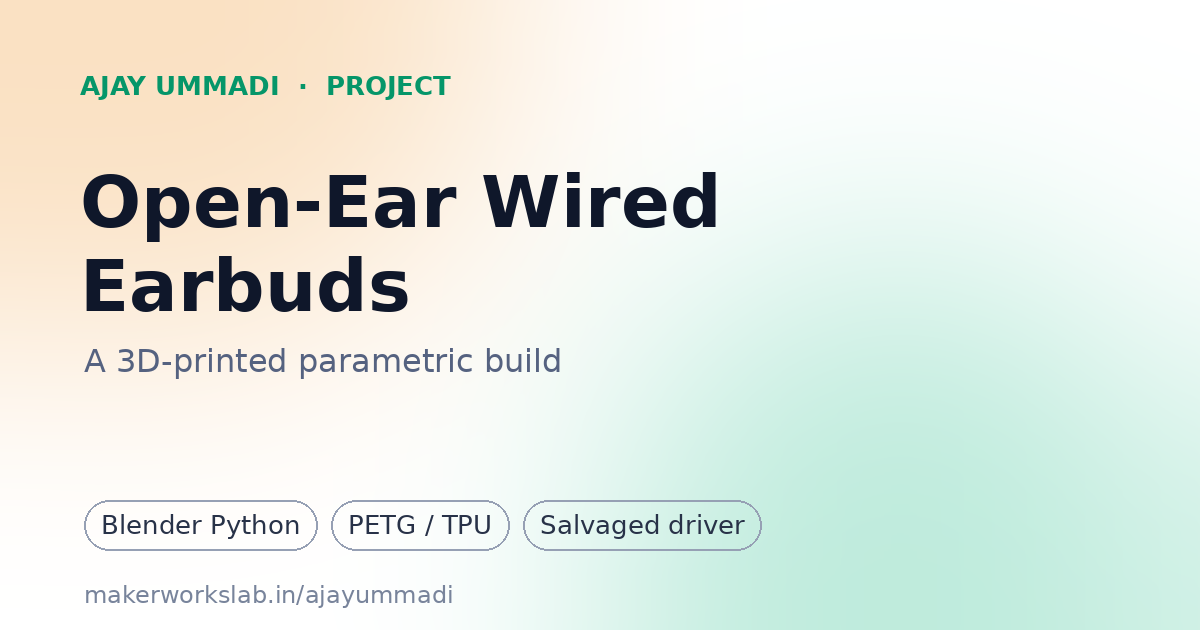
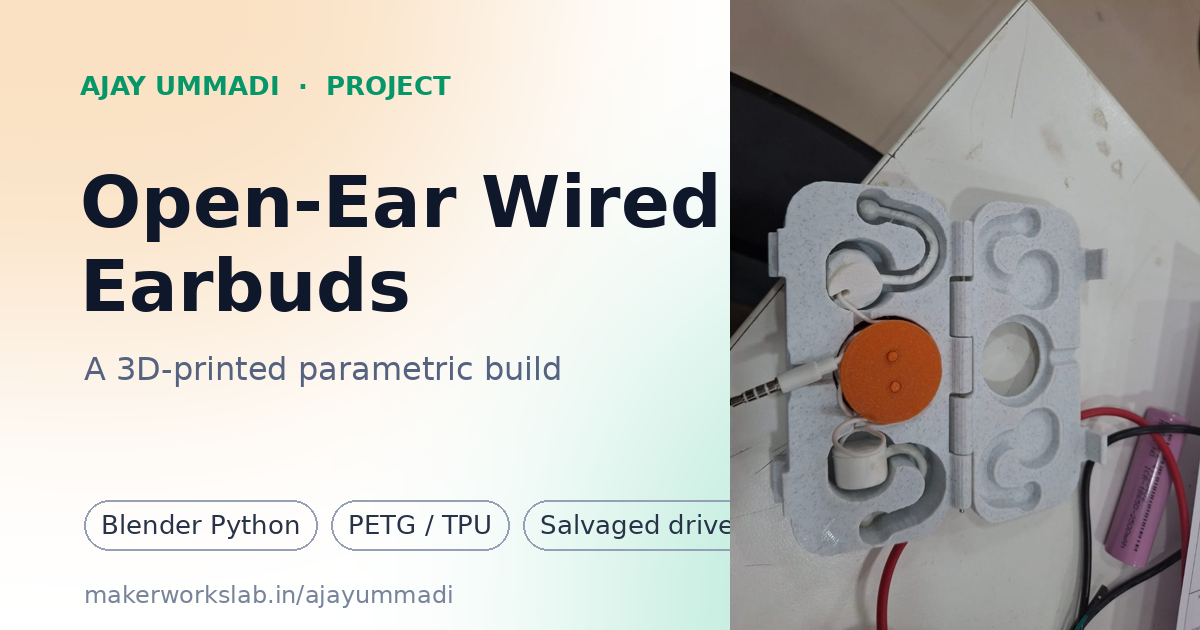
Add earbuds photos and gallery, update case status

diff --git a/projects/open-ear-earbuds/index.html b/projects/open-ear-earbuds/index.html
@@ -4,18 +4,18 @@
 <meta charset="utf-8">
 <meta name="viewport" content="width=device-width, initial-scale=1">
 <title>Open-Ear Wired Earbuds: A 3D-Printed Parametric Build | Ajay Ummadi</title>
-<meta name="description" content="Wired open-ear earphones designed in one parametric Blender Python script around a salvaged driver, 3D-printed in PETG or TPU, with a cable-reel case. Both ears printed and worn.">
+<meta name="description" content="Wired open-ear earphones designed in one parametric Blender Python script around a salvaged driver, 3D-printed in PETG or TPU, with a cable-reel case. Both ears and a cable-reel case printed.">
 <meta name="robots" content="index,follow,max-image-preview:large,max-snippet:-1">
 <meta name="author" content="Ajay Ummadi">
 <meta name="keywords" content="open-ear earphones, 3D printed earbuds, Blender Python, parametric design, PETG, TPU, salvaged driver, cable reel case">
 <link rel="icon" href="../../favicon.svg" type="image/svg+xml"><link rel="icon" href="../../favicon-32.png" sizes="32x32" type="image/png"><link rel="shortcut icon" href="../../favicon.ico"><link rel="apple-touch-icon" href="../../apple-touch-icon.png">
 <link rel="canonical" href="https://makerworkslab.in/ajayummadi/projects/open-ear-earbuds/">
 <meta property="og:type" content="article"><meta property="og:site_name" content="Ajay Ummadi">
-<meta property="og:title" content="Open-Ear Wired Earbuds: A 3D-Printed Parametric Build"><meta property="og:description" content="Wired open-ear earphones designed in one parametric Blender Python script around a salvaged driver, 3D-printed in PETG or TPU, with a cable-reel case. Both ears printed and worn.">
+<meta property="og:title" content="Open-Ear Wired Earbuds: A 3D-Printed Parametric Build"><meta property="og:description" content="Wired open-ear earphones designed in one parametric Blender Python script around a salvaged driver, 3D-printed in PETG or TPU, with a cable-reel case. Both ears and a cable-reel case printed.">
 <meta property="og:url" content="https://makerworkslab.in/ajayummadi/projects/open-ear-earbuds/"><meta property="og:image" content="https://makerworkslab.in/ajayummadi/projects/open-ear-earbuds/og.png">
 <meta property="og:image:width" content="1200"><meta property="og:image:height" content="630"><meta property="og:image:alt" content="Open-Ear Wired Earbuds — project by Ajay Ummadi">
 <meta name="twitter:card" content="summary_large_image"><meta name="twitter:title" content="Open-Ear Wired Earbuds: A 3D-Printed Parametric Build">
-<meta name="twitter:description" content="Wired open-ear earphones designed in one parametric Blender Python script around a salvaged driver, 3D-printed in PETG or TPU, with a cable-reel case. Both ears printed and worn."><meta name="twitter:image" content="https://makerworkslab.in/ajayummadi/projects/open-ear-earbuds/og.png">
+<meta name="twitter:description" content="Wired open-ear earphones designed in one parametric Blender Python script around a salvaged driver, 3D-printed in PETG or TPU, with a cable-reel case. Both ears and a cable-reel case printed."><meta name="twitter:image" content="https://makerworkslab.in/ajayummadi/projects/open-ear-earbuds/og.png">
 <meta name="theme-color" content="#ffffff">
 <script type="application/ld+json">
 {
@@ -67,7 +67,7 @@
    "@id": "https://makerworkslab.in/ajayummadi/projects/open-ear-earbuds/#project",
    "url": "https://makerworkslab.in/ajayummadi/projects/open-ear-earbuds/",
    "name": "Open-Ear Wired Earbuds: A 3D-Printed Parametric Build",
-   "description": "Wired open-ear earphones designed in one parametric Blender Python script around a salvaged driver, 3D-printed in PETG or TPU, with a cable-reel case. Both ears printed and worn.",
+   "description": "Wired open-ear earphones designed in one parametric Blender Python script around a salvaged driver, 3D-printed in PETG or TPU, with a cable-reel case. Both ears and a cable-reel case printed.",
    "creator": {
     "@id": "https://makerworkslab.in/ajayummadi/#person"
    },
@@ -76,7 +76,13 @@
    },
    "keywords": "open-ear earphones, 3D printed earbuds, Blender Python, parametric design, PETG, TPU, salvaged driver, cable reel case",
    "inLanguage": "en",
-   "image": "https://makerworkslab.in/ajayummadi/projects/open-ear-earbuds/og.png",
+   "image": [
+   "https://makerworkslab.in/ajayummadi/projects/open-ear-earbuds/og.png",
+   "https://makerworkslab.in/ajayummadi/projects/open-ear-earbuds/photos/earbuds-1.jpg",
+   "https://makerworkslab.in/ajayummadi/projects/open-ear-earbuds/photos/earbuds-2.jpg",
+   "https://makerworkslab.in/ajayummadi/projects/open-ear-earbuds/photos/earbuds-3.jpg",
+   "https://makerworkslab.in/ajayummadi/projects/open-ear-earbuds/photos/earbuds-4.jpg"
+  ],
    "mainEntityOfPage": "https://makerworkslab.in/ajayummadi/projects/open-ear-earbuds/"
   },
   {
@@ -114,7 +120,7 @@
      "name": "What is tested and what is not?",
      "acceptedAnswer": {
       "@type": "Answer",
-      "text": "Both ears were printed and worn and the open-ear fit works. Sound quality and volume, the slim and compact shells and the cable-reel case have not been tested yet."
+      "text": "Both ears were printed and worn and the open-ear fit works. Sound quality and volume and the slim and compact shells have not been tested yet."
      }
     },
     {
@@ -133,6 +139,18 @@
 <link rel="preconnect" href="https://fonts.googleapis.com">
 <link href="https://fonts.googleapis.com/css2?family=Space+Grotesk:wght@400;500;700&family=Inter:wght@400;500;600&display=swap" rel="stylesheet">
 <link rel="stylesheet" href="../../style.css">
+<style>
+.eb-gal{display:grid;grid-template-columns:repeat(4,1fr);gap:14px;margin:0 0 30px}
+.eb-gal figure{margin:0}.eb-gal button{display:block;width:100%;padding:0;border:1px solid var(--line);border-radius:16px;overflow:hidden;background:var(--card);cursor:zoom-in;box-shadow:0 8px 24px -14px rgba(15,23,42,.25);transition:.25s}
+.eb-gal button:hover,.eb-gal button:focus-visible{transform:translateY(-4px);box-shadow:0 20px 40px -18px rgba(2,132,199,.45);outline:none}
+.eb-gal img{display:block;width:100%;height:auto;aspect-ratio:3/4;object-fit:cover}
+.eb-gal figcaption{font-size:.8rem;color:var(--muted);margin-top:8px;line-height:1.4}
+.eb-lb{position:fixed;inset:0;z-index:50;background:rgba(10,14,24,.9);display:grid;place-items:center;padding:24px}.eb-lb[hidden]{display:none}
+.eb-lb img{max-width:min(92vw,820px);max-height:80vh;border-radius:14px}.eb-lb p{position:absolute;bottom:18px;left:0;right:0;text-align:center;color:#d8e0ee;font-size:.9rem;padding:0 60px}
+.eb-lb button{position:absolute;background:rgba(255,255,255,.12);color:#fff;border:0;width:44px;height:44px;border-radius:50%;font-size:1.6rem;cursor:pointer;line-height:1}.eb-lb button:hover{background:rgba(255,255,255,.25)}
+.eb-lb .x{top:16px;right:16px}.eb-lb .pv{left:16px;top:50%}.eb-lb .nx{right:16px;top:50%}
+@media(max-width:860px){.eb-gal{grid-template-columns:repeat(2,1fr)}}
+</style>
 </head>
 <body>
 <div class="bg"><i></i><i></i><i></i></div>
@@ -144,11 +162,12 @@
 <p class="eyebrow rv">Featured project</p><h1 class="rv" style="font-size:clamp(2rem,5vw,3.2rem);letter-spacing:-.03em;margin:6px 0 30px">Open-Ear Wired Earbuds: A 3D-Printed Build</h1>
 <p class="muted rv" style="max-width:720px;margin:-12px 0 26px">I designed and 3D-printed wired open-ear earphones around a driver salvaged from a pair of wired earphones, plus a pocket case with a cable reel to stop cords tangling. The pod sits in front of the ear canal and an arm hooks over the ear. Nothing goes into the canal.</p>
 <div class="chips big rv" style="margin:0 0 26px"><span class="chip">Role: design, CAD scripting, printing, fit testing</span><span class="chip">Blender (Python)</span><span class="chip">FDM · PETG / TPU</span><span class="chip">Salvaged driver</span></div>
+<div class="eb-gal rv"><figure><button type="button" data-i="0" aria-label="Enlarge photo 1: The printed pocket case with the orange cable reel, with both earbuds seated in their grooves"><img src="photos/earbuds-1.jpg" width="1100" height="825" alt="The printed pocket case with the orange cable reel, with both earbuds seated in their grooves" loading="eager"></button><figcaption>The printed pocket case with the orange cable reel, with both earbuds seated in their grooves</figcaption></figure><figure><button type="button" data-i="1" aria-label="Enlarge photo 2: The case open from above: earbuds in their pockets and the cable wound onto the reel"><img src="photos/earbuds-2.jpg" width="825" height="1100" alt="The case open from above: earbuds in their pockets and the cable wound onto the reel" loading="lazy"></button><figcaption>The case open from above: earbuds in their pockets and the cable wound onto the reel</figcaption></figure><figure><button type="button" data-i="2" aria-label="Enlarge photo 3: Wearing one earphone: the pod sits in front of the ear canal and the arm hooks over the ear"><img src="photos/earbuds-3.jpg" width="825" height="1100" alt="Wearing one earphone: the pod sits in front of the ear canal and the arm hooks over the ear" loading="lazy"></button><figcaption>Wearing one earphone: the pod sits in front of the ear canal and the arm hooks over the ear</figcaption></figure><figure><button type="button" data-i="3" aria-label="Enlarge photo 4: A white printed version of the case with both earbuds in their pockets"><img src="photos/earbuds-4.jpg" width="825" height="1100" alt="A white printed version of the case with both earbuds in their pockets" loading="lazy"></button><figcaption>A white printed version of the case with both earbuds in their pockets</figcaption></figure></div>
 <div class="grid">
 <div class="card rv"><div class="ico">⚠</div><h3>The problem</h3><p>Sealed earbuds block traffic and alarms, get sweaty and tiring, fail within weeks to months when cheap, and tangle in a pocket.</p></div>
 <div class="card rv"><div class="ico">👂</div><h3>The solution</h3><p>A wired, passive open-ear design: no battery, pairing, audio delay or radio. Repairable by reprinting one part, and it reuses a driver that would otherwise be thrown away.</p></div>
 <div class="card rv"><div class="ico">📐</div><h3>Parametric design</h3><p>One Blender script builds the shell and cap with exact booleans. Shell depth is derived from the driver (14.4 mm across, 7.4 mm thick), and one setting mirrors the arm for the other ear. Parts snap together with no glue.</p></div>
-<div class="card rv"><div class="ico">🧵</div><h3>Case with cable reel</h3><p>An oblong clamshell (about 116 × 56 mm) that holds both earbuds and winds both cables onto a reel with one turn of a knob. Designed and overlap-checked in software; not printed yet.</p></div>
+<div class="card rv"><div class="ico">🧵</div><h3>Case with cable reel</h3><p>An oblong clamshell (about 116 × 56 mm) that holds both earbuds and winds both cables onto a reel with one turn of a knob. Printed, with both earbuds seated in their grooves and the cables wound onto the orange reel. See the photos above.</p></div>
 </div>
 <h3 class="rv" style="margin:36px 0 14px">Iterations</h3>
 <div class="timeline">
@@ -160,19 +179,23 @@
 </div>
 <h3 class="rv" style="margin:36px 0 14px">Status</h3>
 <div class="grid">
-<div class="card rv"><h3>Printed and worn</h3><p>Flat pod (left ear) and egg pod (right ear). The open-ear fit works.</p></div>
-<div class="card rv"><h3>Generated, not printed</h3><p>Egg pod (left), slim, compact, and the case with reel.</p></div>
-<div class="card rv"><h3>Not tested yet</h3><p>Sound quality and volume with the cap sealed, and the reel and lid fit.</p></div>
+<div class="card rv"><h3>Printed</h3><p>Flat pod (left ear), egg pod (right ear) and the pocket case with its cable reel. The open-ear fit works.</p></div>
+<div class="card rv"><h3>Generated, not printed</h3><p>Egg pod (left), and the slim and compact versions.</p></div>
+<div class="card rv"><h3>Not tested yet</h3><p>Sound quality and volume with the cap sealed.</p></div>
 <div class="card rv"><h3>Known issues</h3><p>Glasses temple near the arm, rough support residue at the arm top, and the cable pulls the pod slightly forward.</p></div>
 </div>
-<p class="muted rv" style="margin-top:22px;max-width:720px"><b>Limits:</b> open-ear sound is quieter with less bass than in-ear, so it suits quiet to moderate places. The fit is tuned to my ears. <b>Next:</b> measure the foam, print the left egg shell, test sound with a louder driver, print the case, and pick a final design.</p>
+<p class="muted rv" style="margin-top:22px;max-width:720px"><b>Limits:</b> open-ear sound is quieter with less bass than in-ear, so it suits quiet to moderate places. The fit is tuned to my ears. <b>Next:</b> measure the foam, print the left egg shell, test sound with a louder driver, and pick a final design.</p>
 </div></section>
 
 
-<section><div class="wrap"><p class="eyebrow rv">FAQ</p><h2 class="rv">Questions</h2><div class="grid" style="grid-template-columns:1fr"><details class="card rv"><summary style="cursor:pointer;font-weight:600">What are these earphones?</summary><p style="margin-top:10px">Wired, passive open-ear earphones: a pod sits in front of the ear canal and a printed arm hooks over the ear, so nothing enters the canal. They use a driver salvaged from a pair of wired earphones.</p></details><details class="card rv"><summary style="cursor:pointer;font-weight:600">How are they designed?</summary><p style="margin-top:10px">In a single parametric Blender Python script that builds the shell and cap with exact booleans. Changing the driver size rebuilds the parts, and one setting mirrors the arm for the other ear.</p></details><details class="card rv"><summary style="cursor:pointer;font-weight:600">What is tested and what is not?</summary><p style="margin-top:10px">Both ears were printed and worn and the open-ear fit works. Sound quality and volume, the slim and compact shells and the cable-reel case have not been tested yet.</p></details><details class="card rv"><summary style="cursor:pointer;font-weight:600">What are the limits?</summary><p style="margin-top:10px">Open-ear sound is quieter with less bass than in-ear, so it suits quiet to moderate places. The fit is tuned to the maker's ears and the design is not tested for sweat or water.</p></details></div></div></section>
+<section><div class="wrap"><p class="eyebrow rv">FAQ</p><h2 class="rv">Questions</h2><div class="grid" style="grid-template-columns:1fr"><details class="card rv"><summary style="cursor:pointer;font-weight:600">What are these earphones?</summary><p style="margin-top:10px">Wired, passive open-ear earphones: a pod sits in front of the ear canal and a printed arm hooks over the ear, so nothing enters the canal. They use a driver salvaged from a pair of wired earphones.</p></details><details class="card rv"><summary style="cursor:pointer;font-weight:600">How are they designed?</summary><p style="margin-top:10px">In a single parametric Blender Python script that builds the shell and cap with exact booleans. Changing the driver size rebuilds the parts, and one setting mirrors the arm for the other ear.</p></details><details class="card rv"><summary style="cursor:pointer;font-weight:600">What is tested and what is not?</summary><p style="margin-top:10px">Both ears were printed and worn and the open-ear fit works. Sound quality and volume and the slim and compact shells have not been tested yet.</p></details><details class="card rv"><summary style="cursor:pointer;font-weight:600">What are the limits?</summary><p style="margin-top:10px">Open-ear sound is quieter with less bass than in-ear, so it suits quiet to moderate places. The fit is tuned to the maker's ears and the design is not tested for sweat or water.</p></details></div></div></section>
 <section><div class="wrap"><div class="cta rv"><p class="eyebrow">More</p><h2>Other projects</h2><div class="btns"><a class="btn primary" href="../../">Back to portfolio</a><a class="btn" href="../so-101-teleoperation-studio/">SO-101 Studio</a><a class="btn" href="../makerworks-lab/">MakerWorks Lab</a><a class="btn" href="https://www.linkedin.com/in/ajayummadi/" target="_blank" rel="noopener">LinkedIn</a></div></div></div></section>
 </main>
 <footer><div class="wrap">© <span id="y"></span> <a href="../../">Ajay Ummadi</a> · <a href="mailto:ummadi.ajay@gmail.com">ummadi.ajay@gmail.com</a> · <a href="tel:+919493989713">+91 94939 89713</a></div></footer>
+<div class="eb-lb" id="eblb" hidden role="dialog" aria-modal="true" aria-label="Photo viewer"><button class="x" aria-label="Close">×</button><button class="pv" aria-label="Previous">‹</button><img alt=""><button class="nx" aria-label="Next">›</button><p></p></div>
+<script>
+(function(){const C=["The printed pocket case with the orange cable reel, with both earbuds seated in their grooves", "The case open from above: earbuds in their pockets and the cable wound onto the reel", "Wearing one earphone: the pod sits in front of the ear canal and the arm hooks over the ear", "A white printed version of the case with both earbuds in their pockets"],lb=document.getElementById("eblb"),im=lb.querySelector("img"),p=lb.querySelector("p");let i=0,last=null;function show(n){i=(n+C.length)%C.length;im.src="photos/earbuds-"+(i+1)+".jpg";im.alt=C[i];p.textContent=(i+1)+" / "+C.length+" · "+C[i]}function open(n){last=document.activeElement;show(n);lb.hidden=false;document.body.style.overflow="hidden";lb.querySelector(".x").focus()}function close(){lb.hidden=true;document.body.style.overflow="";last&&last.focus()}document.querySelectorAll(".eb-gal button").forEach(b=>b.addEventListener("click",()=>open(+b.dataset.i)));lb.querySelector(".x").onclick=close;lb.querySelector(".pv").onclick=()=>show(i-1);lb.querySelector(".nx").onclick=()=>show(i+1);lb.addEventListener("click",e=>{if(e.target===lb)close()});addEventListener("keydown",e=>{if(lb.hidden)return;if(e.key==="Escape")close();if(e.key==="ArrowLeft")show(i-1);if(e.key==="ArrowRight")show(i+1)})})();
+</script>
 <script src="../../site.js"></script>
 </body>
 </html>
